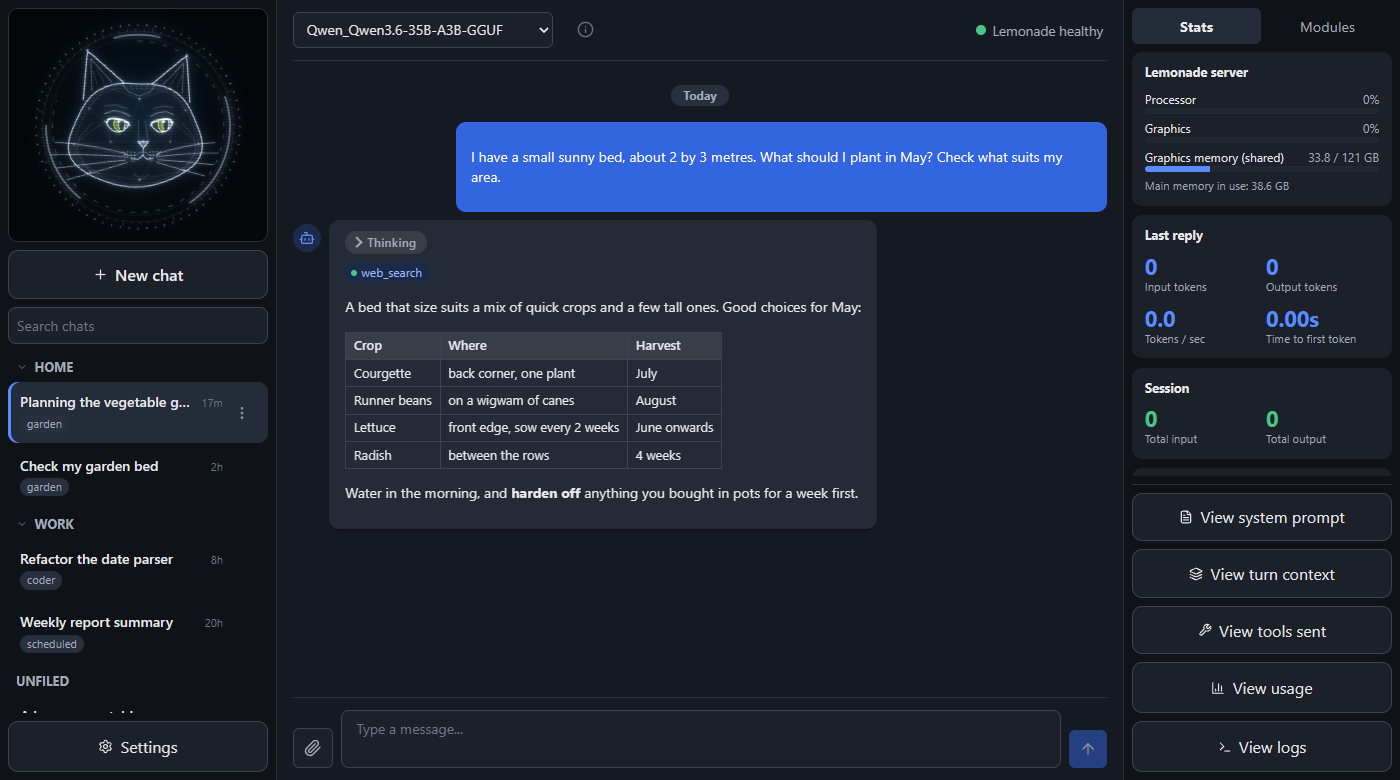
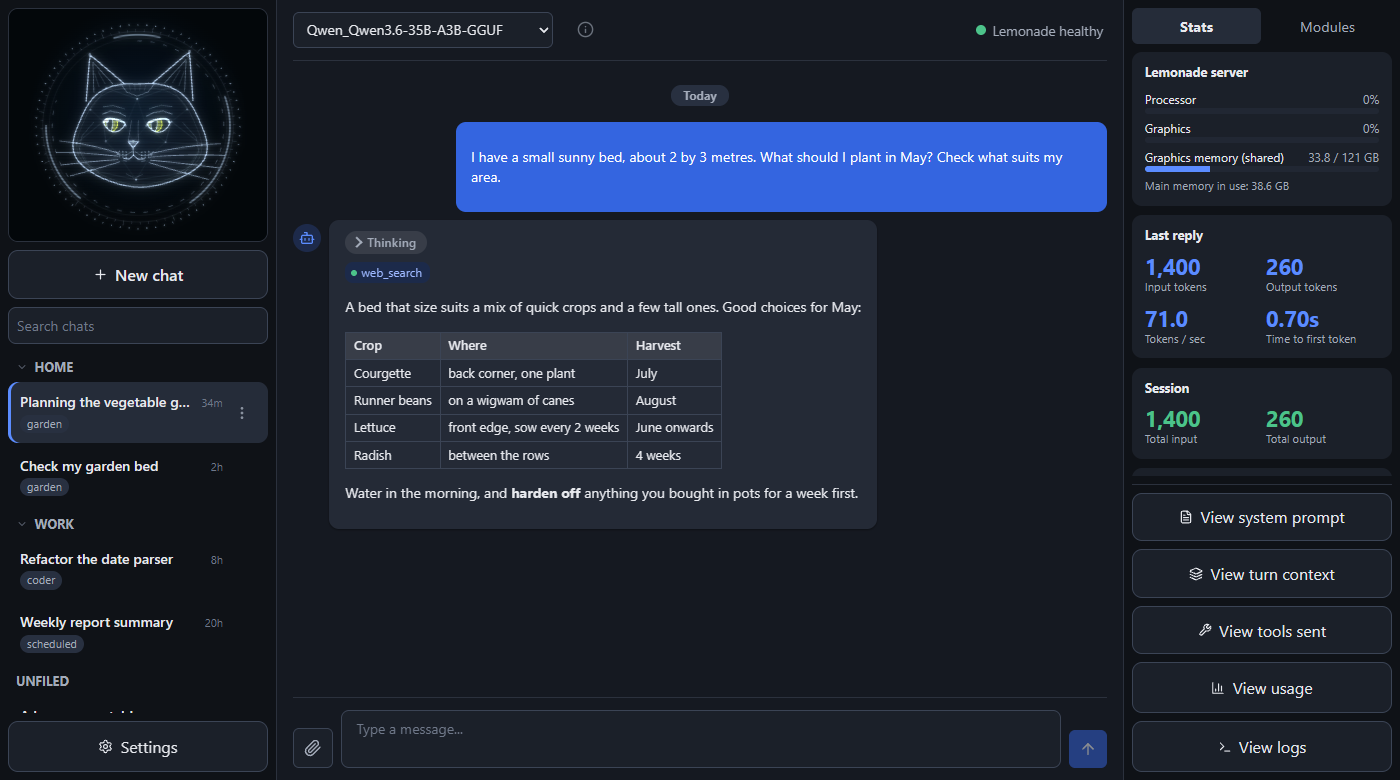
Blazor: show a chat's own stats when it is opened
- Opening a saved chat fills "Last reply" from its newest reply and the Session totals from all its replies, read from what was saved with each reply, instead of showing zeros
- A new chat starts with everything at zero, rather than keeping the previous chat's last reply
- Overview screenshots retaken so the stats panel shows real figures

diff --git a/LemonRind_Blazor/Data/ChatSessionRepository.cs b/LemonRind_Blazor/Data/ChatSessionRepository.cs
@@ -12,6 +12,12 @@ public class StoredChatMessage
     // ToolCallResult.SerializeForStorage (older rows hold just comma-separated
     // tool names, e.g. "search_web,read_webpage").
     public string? ToolCalls { get; set; }
+
+    // What the turn cost, saved with an assistant reply (null on older rows and on other messages).
+    public int? InputTokens { get; set; }
+    public int? OutputTokens { get; set; }
+    public double? TokensPerSecond { get; set; }
+    public double? TimeToFirstToken { get; set; }
 }
 
 public class FolderSummary
@@ -463,7 +469,8 @@ public class ChatSessionRepository(AppDatabase database)
         using var connection = database.OpenConnection();
         using var command = connection.CreateCommand();
         command.CommandText = """
-            SELECT Role, Content, ReasoningContent, CreatedAt, ToolCalls FROM Messages
+            SELECT Role, Content, ReasoningContent, CreatedAt, ToolCalls,
+                   InputTokens, OutputTokens, TokensPerSecond, TimeToFirstToken FROM Messages
             WHERE SessionId = @sessionId
             ORDER BY Id ASC;
             """;
@@ -479,6 +486,10 @@ public class ChatSessionRepository(AppDatabase database)
                 ReasoningContent = reader.IsDBNull(2) ? null : reader.GetString(2),
                 CreatedAt = DateTimeHelpers.ParseUtc(reader.GetString(3)),
                 ToolCalls = reader.IsDBNull(4) ? null : reader.GetString(4),
+                InputTokens = reader.IsDBNull(5) ? null : reader.GetInt32(5),
+                OutputTokens = reader.IsDBNull(6) ? null : reader.GetInt32(6),
+                TokensPerSecond = reader.IsDBNull(7) ? null : reader.GetDouble(7),
+                TimeToFirstToken = reader.IsDBNull(8) ? null : reader.GetDouble(8),
             });
         }
 
